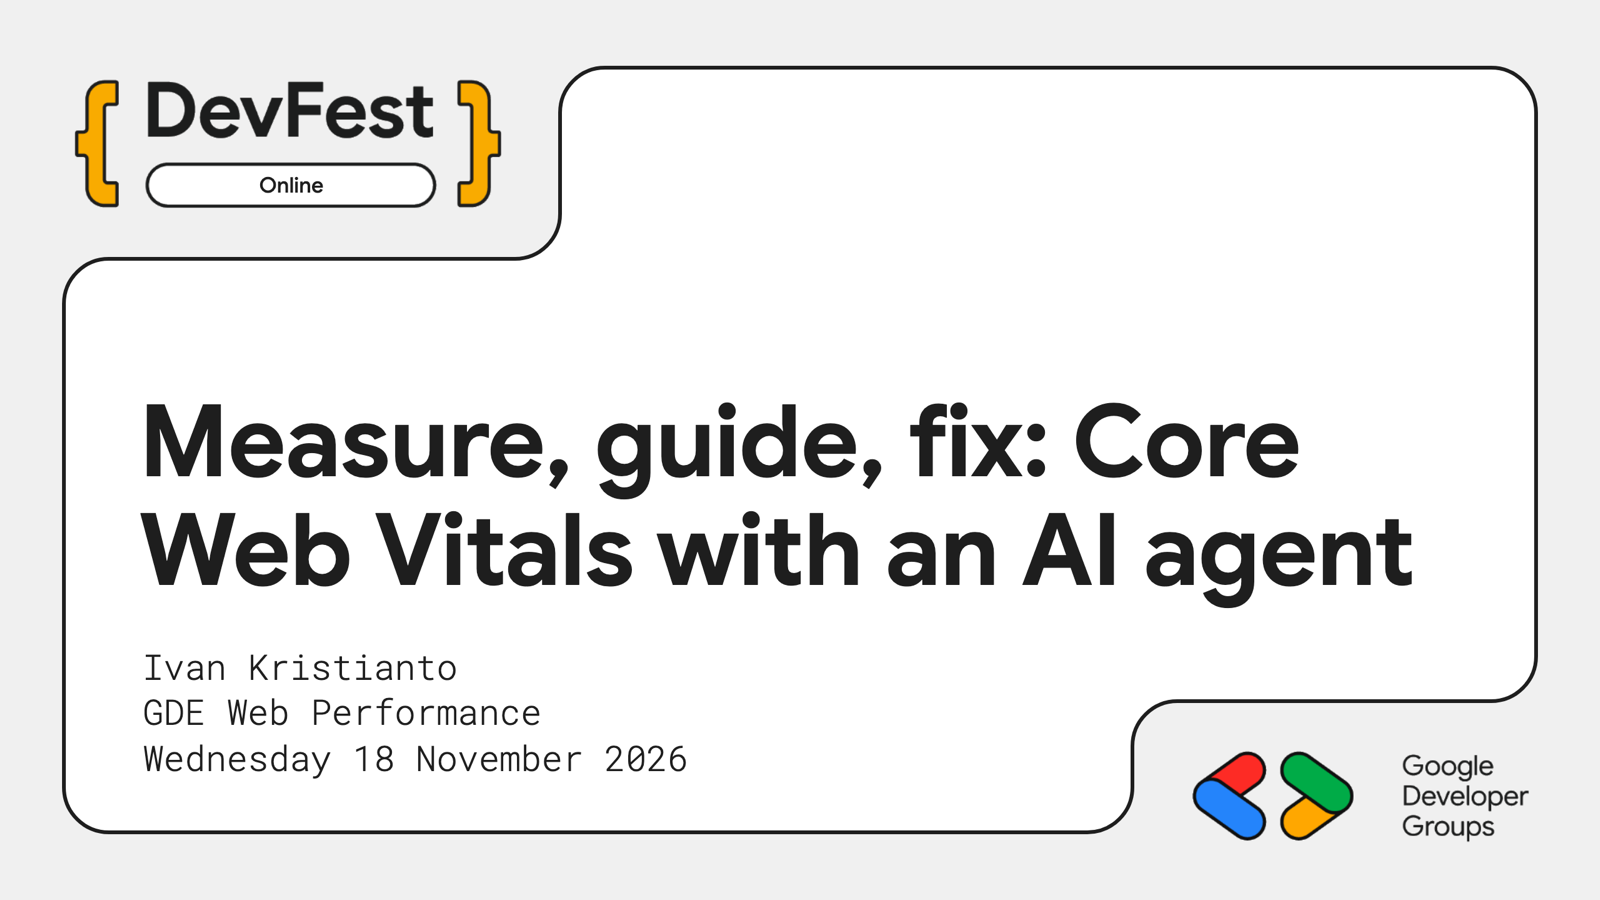
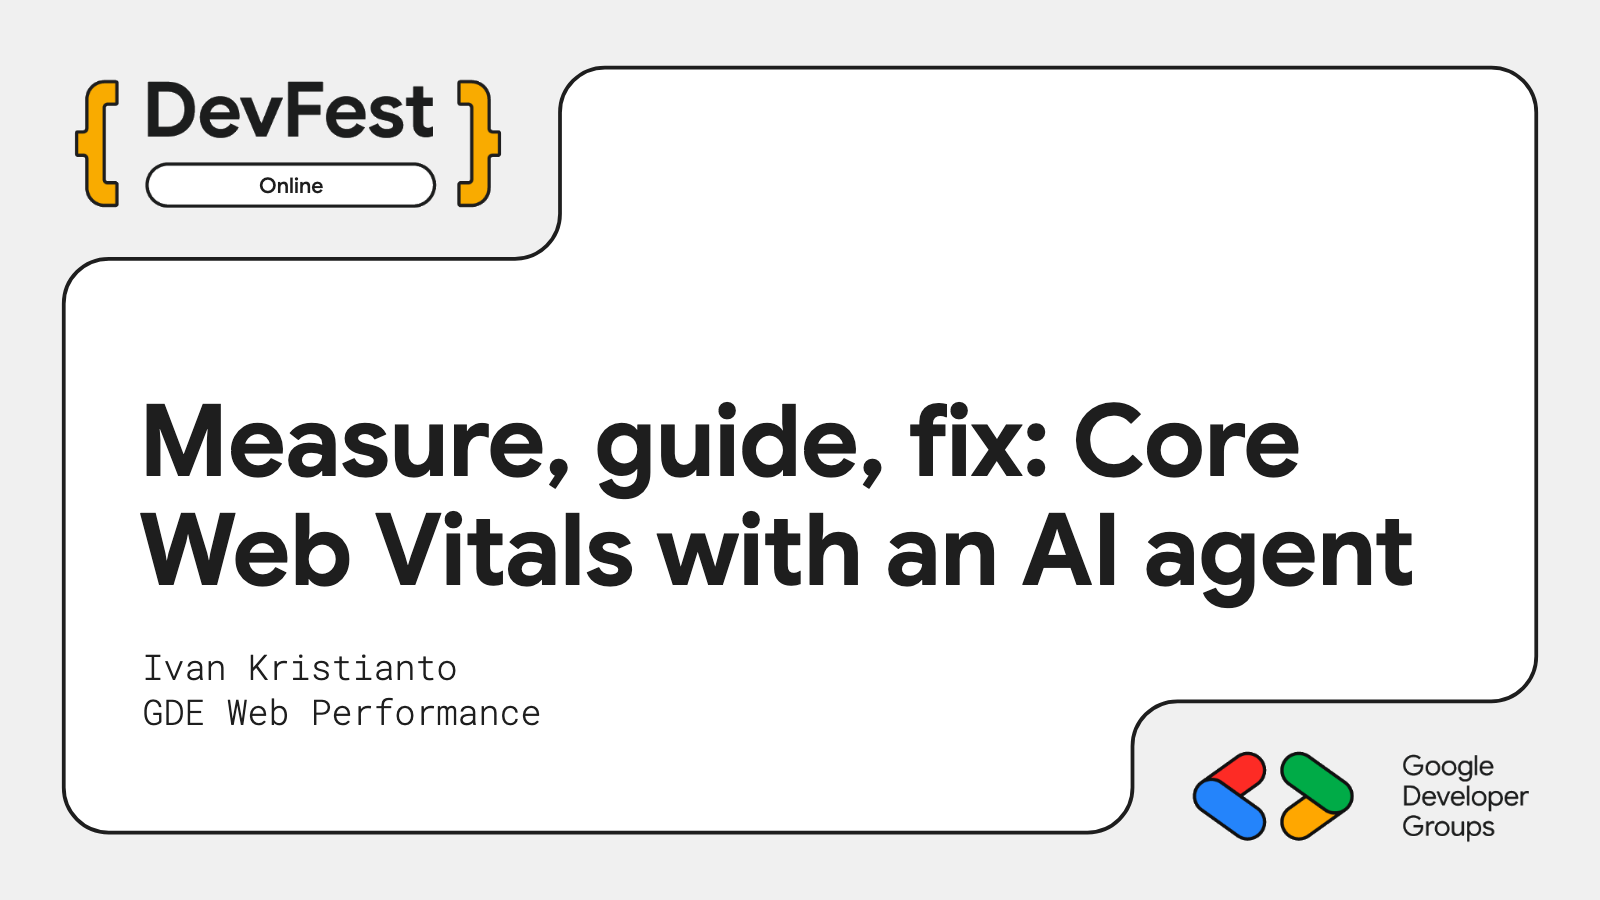
Remove the talk date from the cover slide and README

diff --git a/README.md b/README.md
@@ -1,8 +1,8 @@
 # Measure, guide, fix: Core Web Vitals with an AI agent
 
-![Cover slide: Measure, guide, fix: Core Web Vitals with an AI agent. Ivan Kristianto, GDE Web Performance, DevFest Online, Wednesday 18 November 2026](docs/cover.png)
+![Cover slide: Measure, guide, fix: Core Web Vitals with an AI agent. Ivan Kristianto, GDE Web Performance, DevFest Online](docs/cover.png)
 
-Welcome. This is the material from a one-hour hands-on workshop at Google DevFest Online on 18 November 2026, run by Ivan Kristianto (GDE, Web Performance).
+Welcome. This is the material from a one-hour hands-on workshop at Google DevFest Online, run by Ivan Kristianto (GDE, Web Performance).
 
 You get a small copy of the [Ngobrolin WEB](https://github.com/ngobrolin/landing) podcast site with three performance problems built in. You fix each one with an AI agent ([Antigravity](https://antigravity.google/)) and [Modern Web Guidance](https://developer.chrome.com/blog/modern-web-guidance-v1), and you measure in Chrome DevTools before and after every change. The slides are in here too, and [online](https://talks.ivankristianto.com/google-devfest-2026/).
 

diff --git a/slides.md b/slides.md
@@ -19,7 +19,6 @@ layout: cover
 location: Online
 name: Ivan Kristianto
 role: 'GDE Web Performance'
-date: 'Wednesday 18 November 2026'
 ---
 
 # Measure, guide, fix: Core Web Vitals with an AI agent
